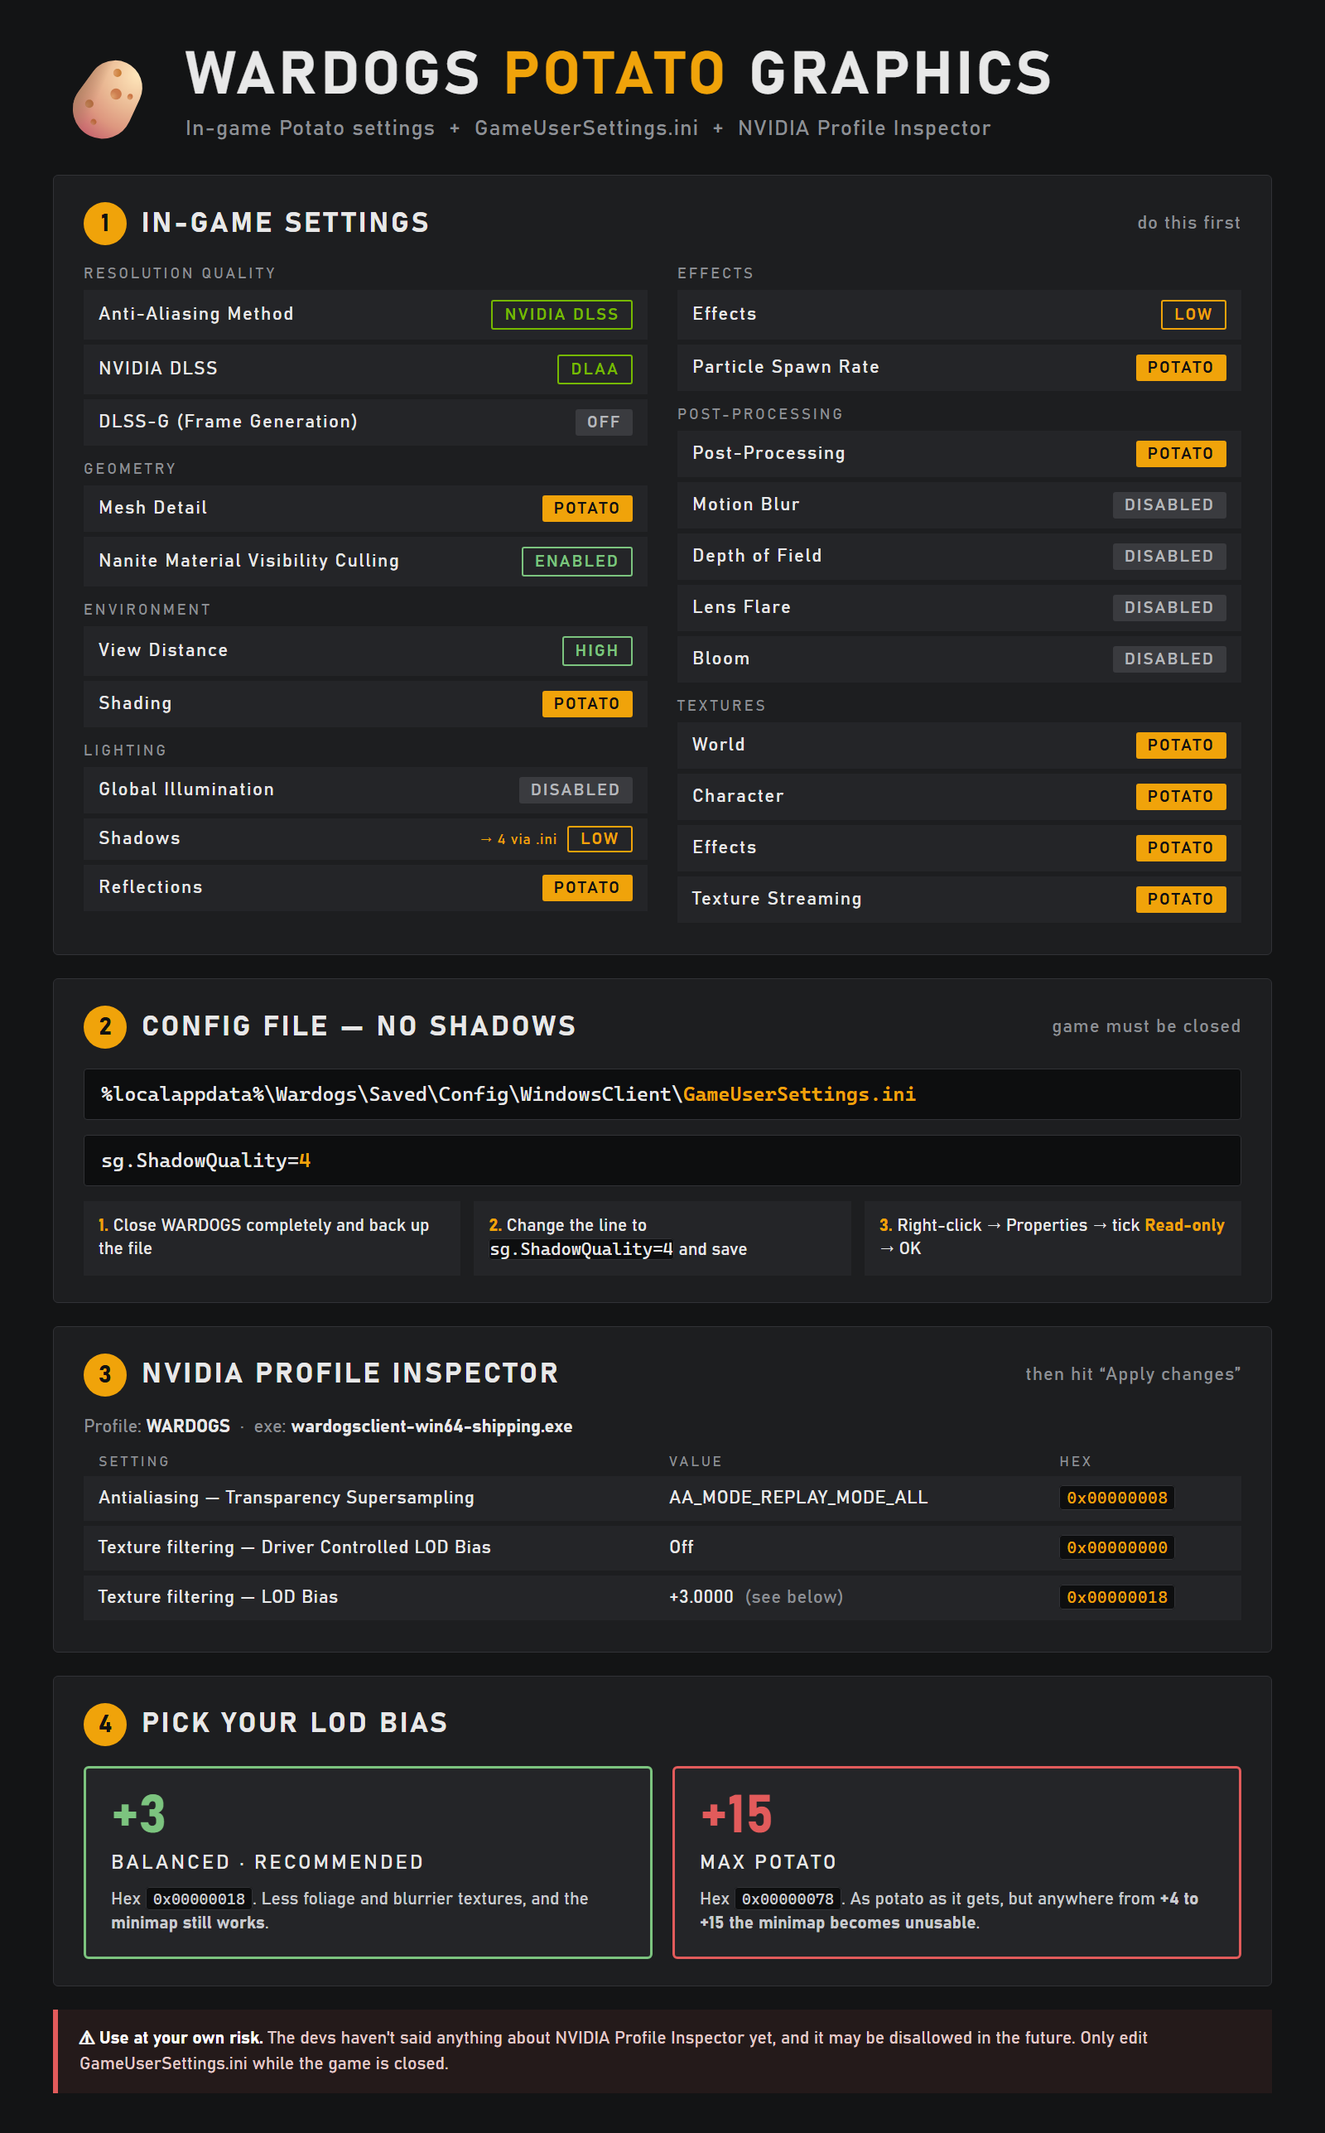
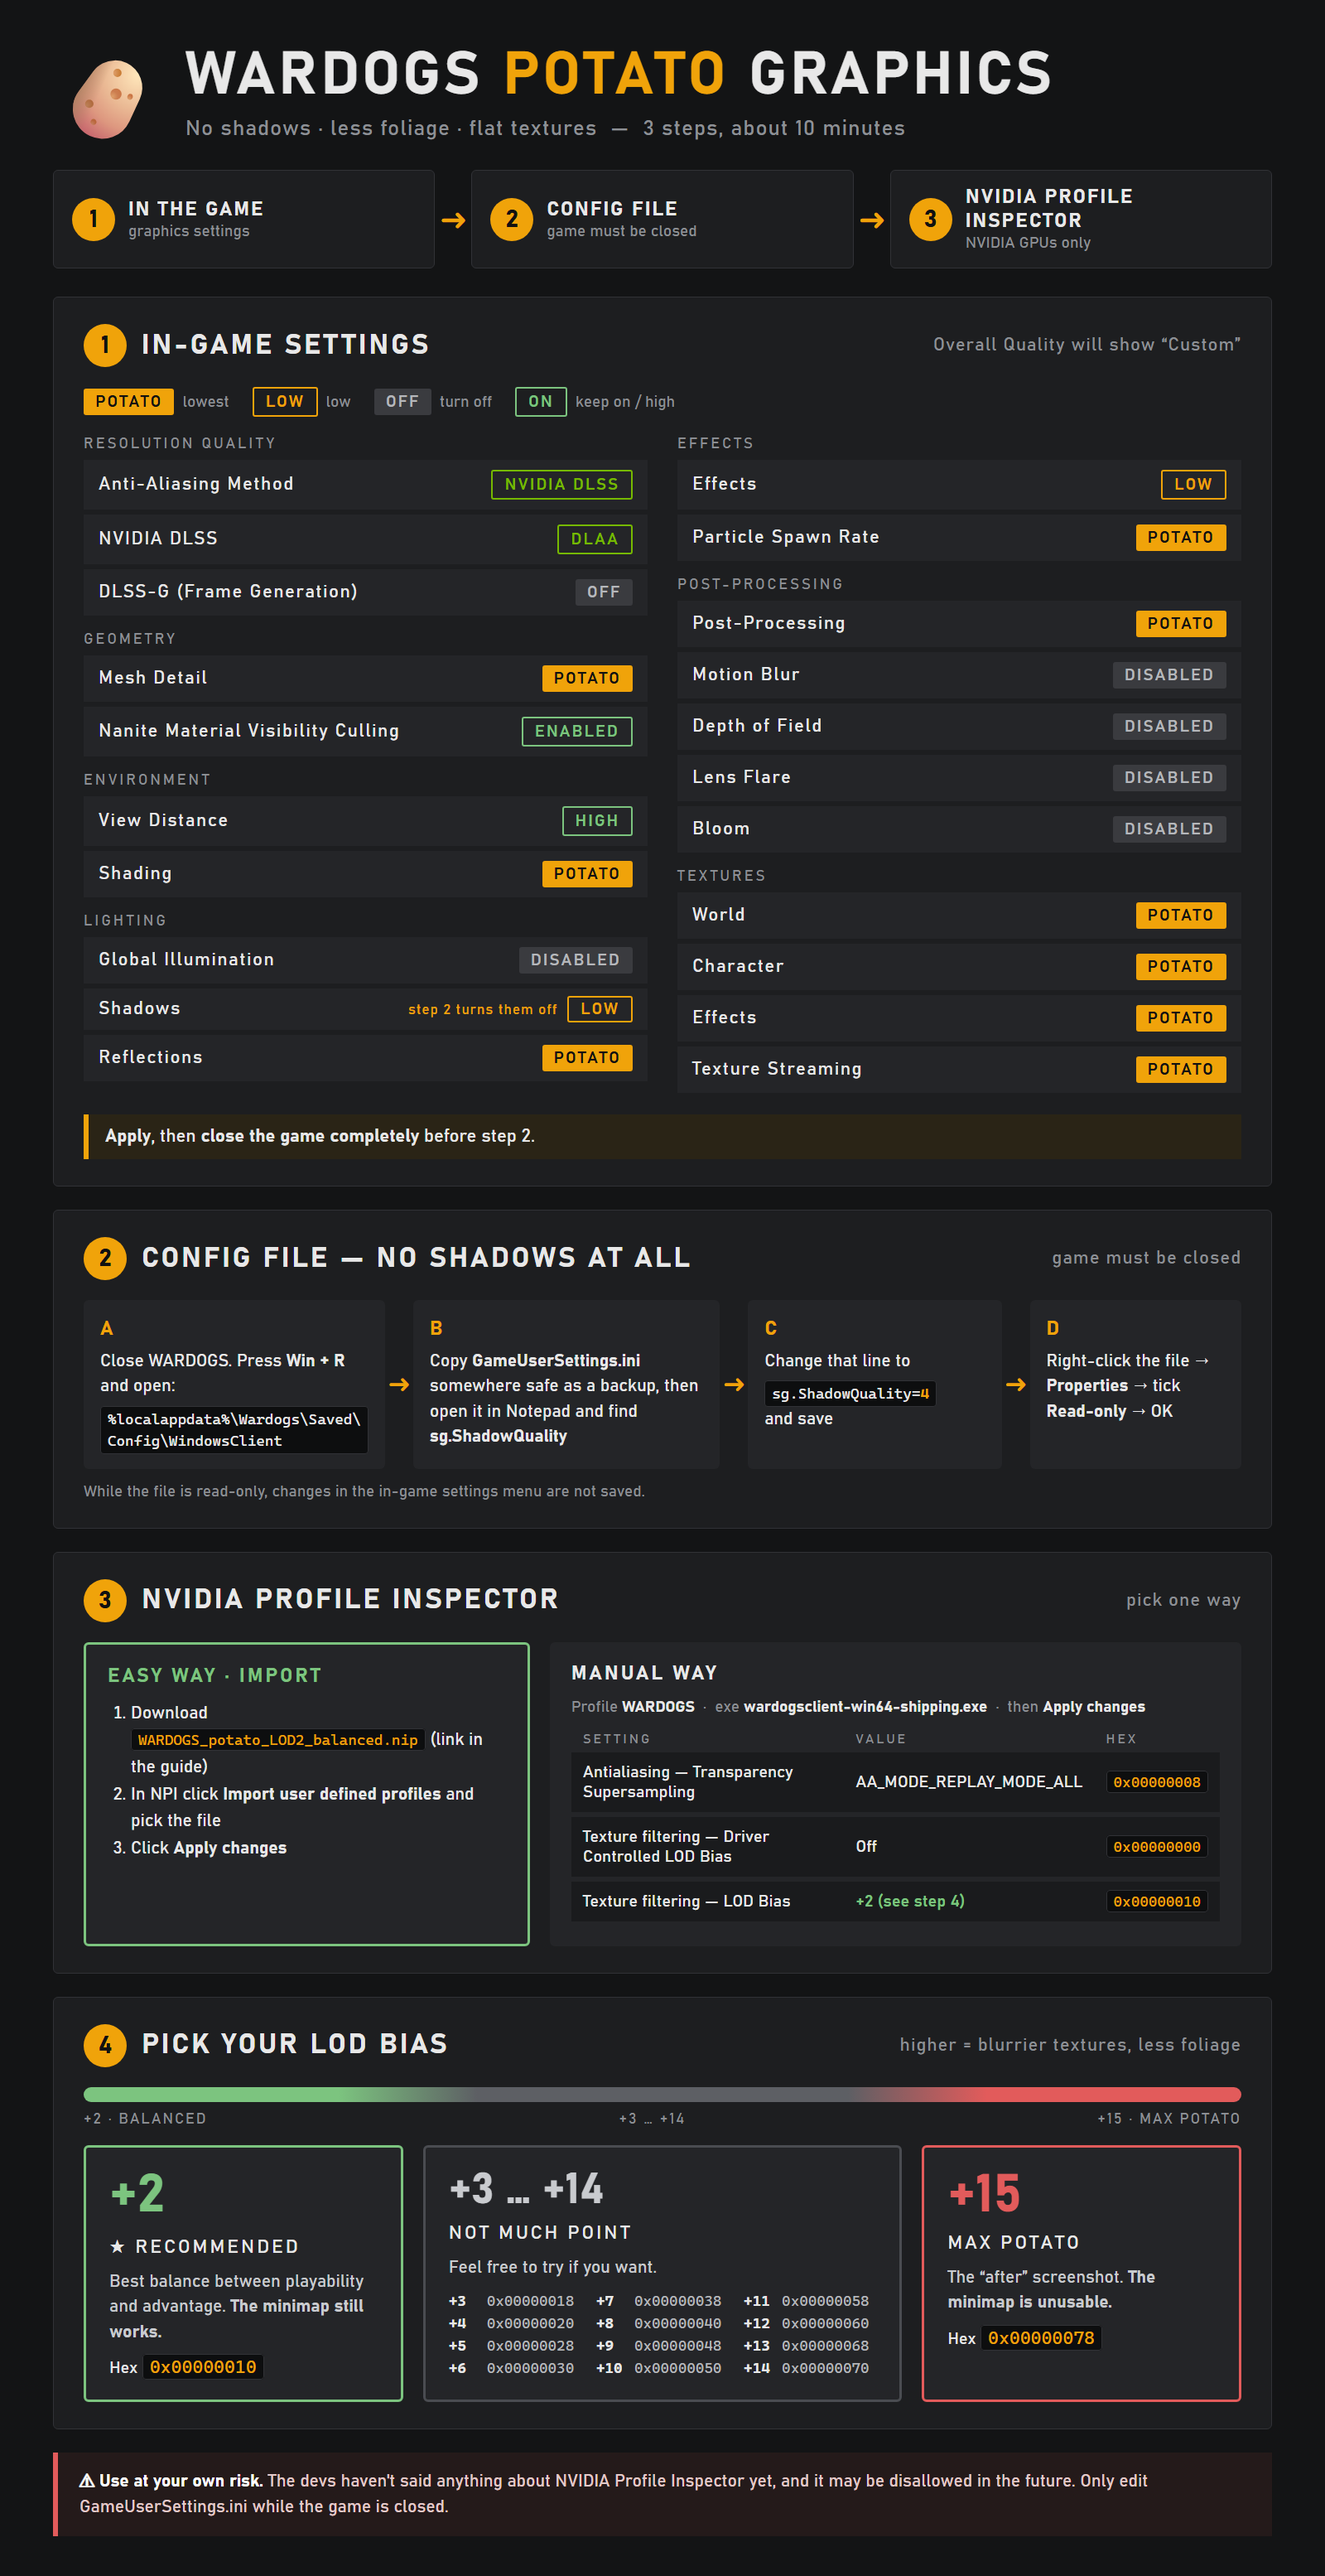
docs: recommend LOD Bias +2 and redraw the cheat sheet

diff --git a/README.de.md b/README.de.md
@@ -4,13 +4,13 @@
 
 Ultra-niedrige („Potato“-)Grafik für **WARDOGS**: Potato-Einstellungen im Spiel, eine Zeile in der `GameUserSettings.ini` und **LOD Bias** über den **NVIDIA Profile Inspector**.
 
-**Kurz gesagt:** Potato-Einstellungen im Spiel → `sg.ShadowQuality=4` in der GameUserSettings.ini (schreibgeschützt) → NVIDIA Profile Inspector mit LOD Bias **+3**. Ergebnis: keine Schatten, deutlich weniger Vegetation und flache, detailarme Texturen.
+**Kurz gesagt:** Potato-Einstellungen im Spiel → `sg.ShadowQuality=4` in der GameUserSettings.ini (schreibgeschützt) → NVIDIA Profile Inspector mit LOD Bias **+2**. Ergebnis: keine Schatten, deutlich weniger Vegetation und flache, detailarme Texturen.
 
 *Zuletzt aktualisiert: 2026-10-27. Das Spiel bekommt weiterhin Updates, die Einstellungen können sich also ändern.*
 
 ![WARDOGS vorher und nachher mit Potato-Grafik](images/before-after.png)
 
-*Der „Nachher“-Screenshot nutzt den maximalen LOD Bias von +15. Empfohlen ist +3 ([warum](#welchen-lod-bias-soll-ich-nehmen)).*
+*Der „Nachher“-Screenshot nutzt den maximalen LOD Bias von +15. Empfohlen ist +2 ([warum](#welchen-lod-bias-soll-ich-nehmen)).*
 
 > ⚠ **Nutzung auf eigene Gefahr.** Die Entwickler haben sich bisher nicht zum NVIDIA Profile Inspector geäußert und könnten ihn in Zukunft verbieten. Falls das passiert, mach alles rückgängig (siehe [Rückgängig machen](#rückgängig-machen)).
 
@@ -89,7 +89,7 @@ Lade NPI über den Link oben herunter, entpacke es und starte `nvidiaProfileInsp
 ### Option A: fertiges Profil importieren (am einfachsten)
 
 1. Lade eines dieser Profile herunter. Öffne die Datei und klicke auf **Download raw file**.
-    * [`WARDOGS_potato_LOD3_balanced.nip`](profiles/WARDOGS_potato_LOD3_balanced.nip) (**empfohlen**, LOD Bias +3)
+    * [`WARDOGS_potato_LOD2_balanced.nip`](profiles/WARDOGS_potato_LOD2_balanced.nip) (**empfohlen**, LOD Bias +2)
     * [`WARDOGS_potato_LOD15_max.nip`](profiles/WARDOGS_potato_LOD15_max.nip) (maximal Potato, LOD Bias +15, macht die Minimap unbrauchbar)
 2. Klicke in NPI in der Werkzeugleiste auf **Import user defined profiles** und wähle die `.nip`-Datei.
 3. Klicke auf **Apply changes** (oben rechts).
@@ -106,7 +106,7 @@ Lade NPI über den Link oben herunter, entpacke es und starte `nvidiaProfileInsp
 |:--|:--|:--|
 | Antialiasing - Transparency Supersampling | AA_MODE_REPLAY_MODE_ALL | `0x00000008` |
 | Texture filtering - Driver Controlled LOD Bias | Off | `0x00000000` |
-| Texture filtering - LOD Bias | +3 *(siehe unten)* | `0x00000018` |
+| Texture filtering - LOD Bias | +2 *(siehe unten)* | `0x00000010` |
 
 Die ersten beiden Einstellungen sorgen dafür, dass der Treiber deinen LOD Bias überhaupt anwendet. Ohne sie bewirkt die dritte nichts.
 
@@ -116,7 +116,8 @@ Die ersten beiden Einstellungen sorgen dafür, dass der Treiber deinen LOD Bias 
 
 | LOD Bias | Hex | Ergebnis |
 |:--|:--|:--|
-| **+3** | `0x00000018` | **Empfohlen.** Guter Kompromiss zwischen Spielbarkeit und Vorteil. Die Minimap funktioniert weiterhin. |
+| **+2** | `0x00000010` | **Empfohlen.** Guter Kompromiss zwischen Spielbarkeit und Vorteil. Die Minimap funktioniert weiterhin. |
+| +3 | `0x00000018` | Bringt nicht viel, aber probier es ruhig aus, wenn du willst. |
 | +4 | `0x00000020` | Bringt nicht viel, aber probier es ruhig aus, wenn du willst. |
 | +5 | `0x00000028` | Bringt nicht viel, aber probier es ruhig aus, wenn du willst. |
 | +6 | `0x00000030` | Bringt nicht viel, aber probier es ruhig aus, wenn du willst. |
@@ -130,7 +131,7 @@ Die ersten beiden Einstellungen sorgen dafür, dass der Treiber deinen LOD Bias 
 | +14 | `0x00000070` | Bringt nicht viel, aber probier es ruhig aus, wenn du willst. |
 | +15 | `0x00000078` | Maximal Potato. Das ist der „Nachher“-Screenshot. Die Minimap ist unbrauchbar. |
 
-**Kurz gesagt: Nimm +3**, außer du kommst ohne Minimap klar.
+**Kurz gesagt: Nimm +2**, außer du kommst ohne Minimap klar.
 
 ---
 
@@ -144,7 +145,7 @@ Die ersten beiden Einstellungen sorgen dafür, dass der Treiber deinen LOD Bias 
 
 ## Bekannte Probleme
 
-* **Minimap unbrauchbar:** Dein LOD Bias liegt über +3. Stell ihn wieder auf +3 (`0x00000018`).
+* **Minimap unbrauchbar:** Dein LOD Bias liegt über +3. Stell ihn wieder auf +2 (`0x00000010`).
 * **Einstellungen im Spiel werden nicht gespeichert:** Die GameUserSettings.ini ist seit Schritt 2 noch schreibgeschützt. Das ist so gewollt.
 * **AMD- / Intel-Grafikkarte:** NPI funktioniert nur mit NVIDIA, die Schritte 1–2 aber trotzdem.
 

diff --git a/README.md b/README.md
@@ -4,13 +4,13 @@
 
 Ultra-low ("potato") graphics for **WARDOGS**: in-game Potato settings, one `GameUserSettings.ini` line, and **LOD Bias** through **NVIDIA Profile Inspector**.
 
-**TL;DR:** Potato in-game settings → `sg.ShadowQuality=4` in GameUserSettings.ini (set to read-only) → NVIDIA Profile Inspector with LOD Bias **+3**. You end up with no shadows, much less foliage and flat, low-detail textures.
+**TL;DR:** Potato in-game settings → `sg.ShadowQuality=4` in GameUserSettings.ini (set to read-only) → NVIDIA Profile Inspector with LOD Bias **+2**. You end up with no shadows, much less foliage and flat, low-detail textures.
 
 *Last updated: 2026-10-27. The game is still getting updates, so settings may change.*
 
 ![WARDOGS before / after potato graphics](images/before-after.png)
 
-*The "after" screenshot uses the max LOD Bias of +15. The recommended value is +3 ([why](#which-lod-bias-should-i-use)).*
+*The "after" screenshot uses the max LOD Bias of +15. The recommended value is +2 ([why](#which-lod-bias-should-i-use)).*
 
 > ⚠ **Use at your own risk.** The devs haven't said anything about NVIDIA Profile Inspector so far, and they may disallow it in the future. If that happens, roll everything back (see [How to undo](#how-to-undo)).
 
@@ -87,7 +87,7 @@ Download NPI from the GitHub link above, unzip it and run `nvidiaProfileInspecto
 ### Option A: import a ready profile (easiest)
 
 1. Download one of these profiles. Open the file and click **Download raw file**.
-    * [`WARDOGS_potato_LOD3_balanced.nip`](profiles/WARDOGS_potato_LOD3_balanced.nip) (**recommended**, LOD Bias +3)
+    * [`WARDOGS_potato_LOD2_balanced.nip`](profiles/WARDOGS_potato_LOD2_balanced.nip) (**recommended**, LOD Bias +2)
     * [`WARDOGS_potato_LOD15_max.nip`](profiles/WARDOGS_potato_LOD15_max.nip) (max potato, LOD Bias +15, breaks the minimap)
 2. In NPI, click **Import user defined profiles** in the toolbar and pick the `.nip` file.
 3. Click **Apply changes** (top right).
@@ -104,7 +104,7 @@ Download NPI from the GitHub link above, unzip it and run `nvidiaProfileInspecto
 |:--|:--|:--|
 | Antialiasing - Transparency Supersampling | AA_MODE_REPLAY_MODE_ALL | `0x00000008` |
 | Texture filtering - Driver Controlled LOD Bias | Off | `0x00000000` |
-| Texture filtering - LOD Bias | +3 *(see below)* | `0x00000018` |
+| Texture filtering - LOD Bias | +2 *(see below)* | `0x00000010` |
 
 The first two settings make the driver actually apply your LOD Bias value. Without them, the third one does nothing.
 
@@ -114,7 +114,8 @@ The first two settings make the driver actually apply your LOD Bias value. Witho
 
 | LOD Bias | Hex | Result |
 |:--|:--|:--|
-| **+3** | `0x00000018` | **Recommended.** Good balance between playability and advantage. The minimap still works. |
+| **+2** | `0x00000010` | **Recommended.** Good balance between playability and advantage. The minimap still works. |
+| +3 | `0x00000018` | Not much point, but feel free to try. |
 | +4 | `0x00000020` | Not much point, but feel free to try. |
 | +5 | `0x00000028` | Not much point, but feel free to try. |
 | +6 | `0x00000030` | Not much point, but feel free to try. |
@@ -128,7 +129,7 @@ The first two settings make the driver actually apply your LOD Bias value. Witho
 | +14 | `0x00000070` | Not much point, but feel free to try. |
 | +15 | `0x00000078` | Max potato. This is the "after" screenshot. The minimap is unusable. |
 
-**TL;DR: use +3** unless you're fine with playing without a minimap.
+**TL;DR: use +2** unless you're fine with playing without a minimap.
 
 ---
 
@@ -142,7 +143,7 @@ The first two settings make the driver actually apply your LOD Bias value. Witho
 
 ## Known issues
 
-* **The minimap is unusable**: your LOD Bias is above +3. Set it back to +3 (`0x00000018`).
+* **The minimap is unusable**: your LOD Bias is above +3. Set it back to +2 (`0x00000010`).
 * **In-game settings won't save**: GameUserSettings.ini is still read-only from Step 2. That's expected.
 * **AMD / Intel GPU**: NPI is NVIDIA-only, but Steps 1–2 still work.
 
